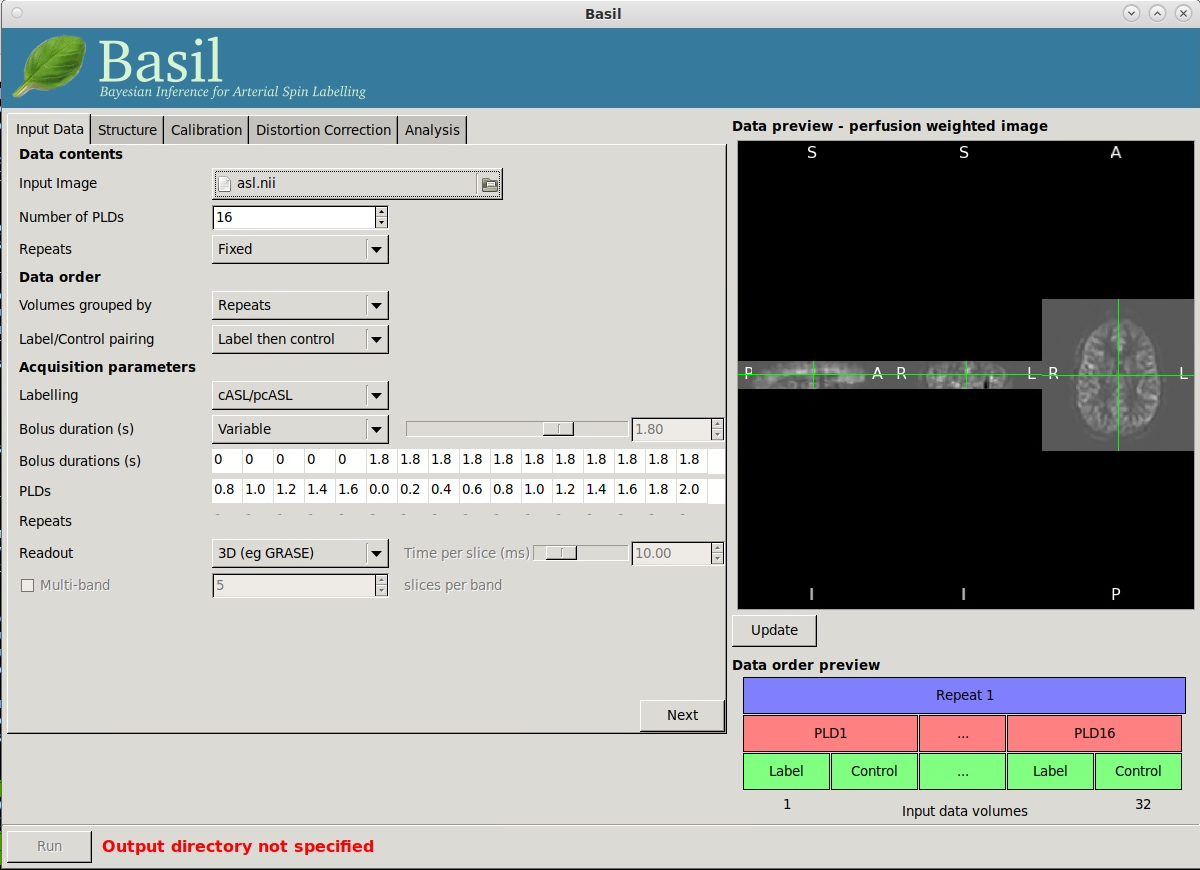
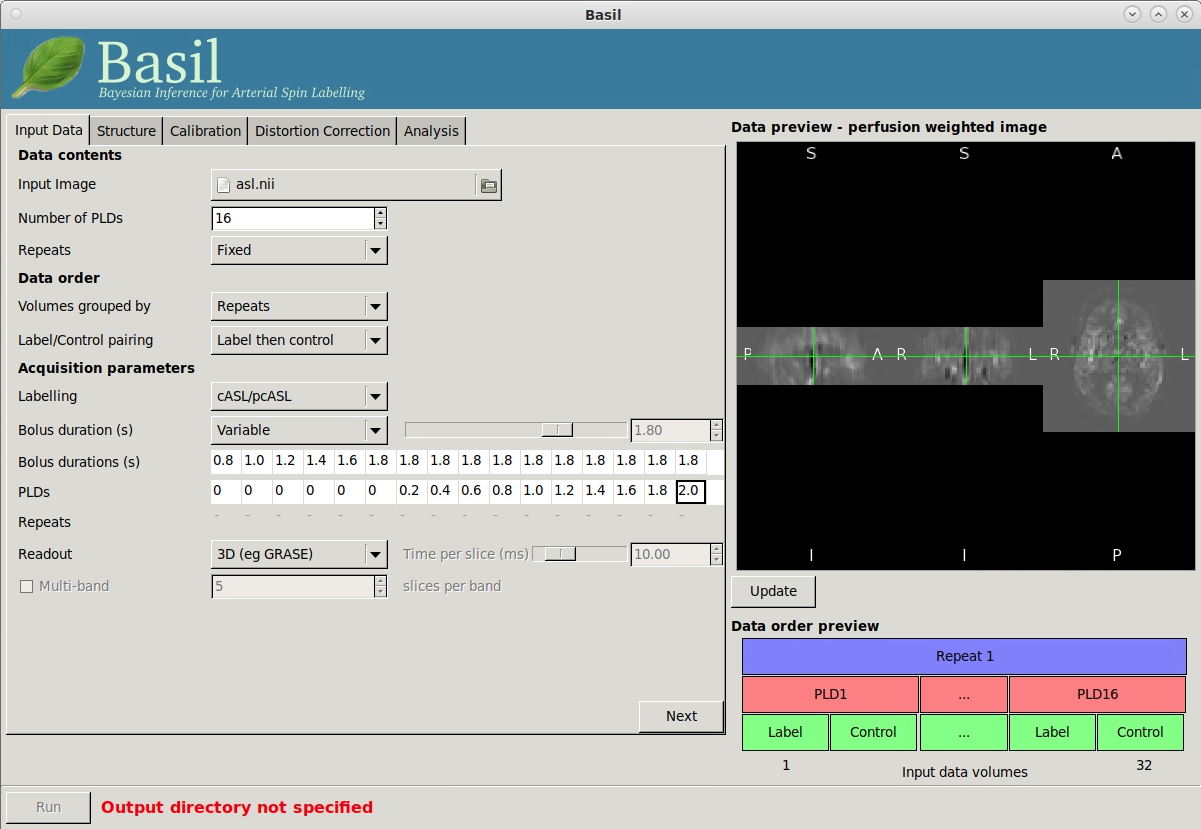
update ASL GUI documentation

Changed region(s): [[0.0, 0.0, 1.0, 0.9349], [0.0, 0.965, 1.0, 1.0], [0.0, 0.8745, 0.0308, 0.9047]]

diff --git a/docs/source/asl/asl_multiPLD_BASIL.rst b/docs/source/asl/asl_multiPLD_BASIL.rst
@@ -86,9 +86,9 @@ Input Data - Acquisition parameters
   ..  table:: **LDs and PLDs**
 
     +-------------------------+-----+-----+-----+-----+-----+-----+-----+-----+-----+-----+-----+-----+-----+-----+-----+-----+
-    | **Bolus durations (s)** |  0  |  0  |  0  |  0  |  0  | 1.8 | 1.8 | 1.8 | 1.8 | 1.8 | 1.8 | 1.8 | 1.8 | 1.8 | 1.8 | 1.8 |
+    | **Bolus durations (s)** | 0.8 | 1.0 | 1.2 | 1.4 | 1.6 | 1.8 | 1.8 | 1.8 | 1.8 | 1.8 | 1.8 | 1.8 | 1.8 | 1.8 | 1.8 | 1.8 |
     +-------------------------+-----+-----+-----+-----+-----+-----+-----+-----+-----+-----+-----+-----+-----+-----+-----+-----+
-    | **PLDs**                | 0.8 | 1.0 | 1.2 | 1.4 | 1.6 |  0  | 0.2 | 0.4 | 0.6 | 0.8 | 1.0 | 1.2 | 1.4 | 1.6 | 1.8 | 2.0 |
+    | **PLDs**                |  0  |  0  |  0  |  0  |  0  |  0  | 0.2 | 0.4 | 0.6 | 0.8 | 1.0 | 1.2 | 1.4 | 1.6 | 1.8 | 2.0 |
     +-------------------------+-----+-----+-----+-----+-----+-----+-----+-----+-----+-----+-----+-----+-----+-----+-----+-----+
 
 * **Readout**: *3D (eg GRASE)*. 
